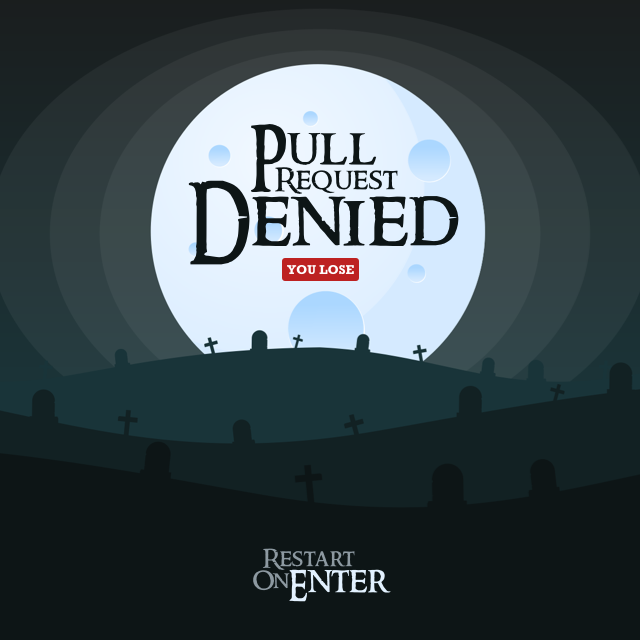
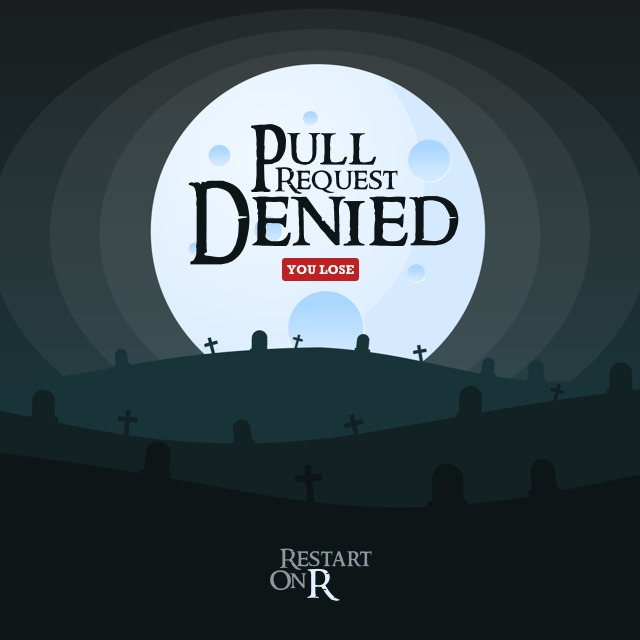
Instructions Screen, More Improvements

Changed region(s): [[0.4062, 0.8438, 0.625, 0.9375]]

diff --git a/scripts/game.js b/scripts/game.js
@@ -1,11 +1,12 @@
 // GAME CLASS
 const lostImage = new Image();
-lostImage.src = './../images/losegame.png';
+lostImage.src = "./../images/losegame.png";
 const wonImage = new Image();
-wonImage.src = './../images/wingame.png';
+wonImage.src = "./../images/wingame.png";
+const instructionsImage = new Image();
+instructionsImage.src = "./../images/instructions.png";
 
 //bgSound.addEventListener( "load", () => {  });
-
 
 class Game {
   constructor($canvas) {
@@ -15,9 +16,12 @@ class Game {
     this.controls = new Controls(this);
 
     this.state = false;
+    this.gameLevel = 1;
+
+    this.instructions = true;
 
     this.sound = new Audio();
-    this.sound.src = './../sounds/backgroundsound.mp3';
+    this.sound.src = "./../sounds/backgroundsound.mp3";
     this.winSound = new Audio();
     this.winSound.src = "../sounds/rejoice.ogg";
 
@@ -36,26 +40,26 @@ class Game {
 
   drawEverything() {
     const context = this.context;
-    if (this.player.health <= 0) {
-      // IF PLAYER LOOSES THE GAME
-      this.context.drawImage(lostImage, 0, 0, 640, 640);
-      this.sound.pause();
-      if(this.player.deadSoundFlag){
-        this.player.deadSound.play();
-        this.player.deadSoundFlag = false;
-      }
-    } else if(this.player.githubs.length === 5){
-      this.context.drawImage(wonImage, 0, 0, 640, 640);
-      this.sound.pause();
-      this.winSound.play();
+    if (this.instructions) {
+      this.context.drawImage(instructionsImage, 0, 0, 640, 640);
     } else {
-      this.winSound.pause();
-      this.level.drawLevel();
+      if (this.player.health <= 0) {
+        // IF PLAYER LOOSES THE GAME
+        this.context.drawImage(lostImage, 0, 0, 640, 640);
+        this.sound.pause();
+        if (this.player.deadSoundFlag) {
+          this.player.deadSound.play();
+          this.player.deadSoundFlag = false;
+        }
+      } else if (this.player.githubs.length === 5) {
+        this.context.drawImage(wonImage, 0, 0, 640, 640);
+        this.sound.pause();
+        this.winSound.play();
+      } else {
+        this.winSound.pause();
+        this.level.drawLevel();
+      }
     }
-  }
-
-  drawScore() {
-
   }
 
   updateEverything(timestamp) {
@@ -63,15 +67,17 @@ class Game {
     this.player.updatePlayer();
 
     if (this.tempTimeStamp < timestamp - this.animationPlayer) {
-      this.player.indexBubble = Math.floor(Math.random()*this.player.bubblesArray.length);
-      this.player.showBubble = !(this.player.showBubble);
+      this.player.indexBubble = Math.floor(
+        Math.random() * this.player.bubblesArray.length
+      );
+      this.player.showBubble = !this.player.showBubble;
       this.tempTimeStamp = timestamp;
     }
 
     if (this.tempTimeStamp2 < timestamp - this.bugSpeed) {
-      for (let bug of this.level.bugsArray) {    
-        if (bug.health > 0){
-            bug.invertBug();
+      for (let bug of this.level.bugsArray) {
+        if (bug.health > 0) {
+          bug.invertBug();
         }
       }
       this.tempTimeStamp2 = timestamp;
@@ -91,15 +97,9 @@ class Game {
     this.animation();
   }
 
-  startLevel() {
-    
-  }
+  startLevel() {}
 
-  loseGame() {
+  loseGame() {}
 
-  }
-
-  restartGame() {
-
-  }
+  restartGame() {}
 }

diff --git a/scripts/levels.js b/scripts/levels.js
@@ -11,7 +11,6 @@ class Level {
     this.bugsArray = [];
     this.bugsArray.push(new Bug(this, 2, 6), new Bug(this, 4, 6),  new Bug(this, 4, 1));
     
-    
     this.gravity = 0.3;
     this.friction = 0.8;
     this.devMode = false;
@@ -19,17 +18,17 @@ class Level {
     this.runAnimationSprite = 0;
     this.runAnimationCounter = 0;
     this.map = [
-      [0, 0, 0, 0, 0, 0, 0, 0, 0, 0],
-      [0, 0, 0, 0, 0, 0, 0, 0, 0, 2],
-      [0, 0, 2, 1, 1, 1, 1, 16, 0, 0],
-      [0, 0, 0, 0, 0, 0, 0, 0, 0, 15],
-      [0, 0, 0, 0, 0, 0, 0, 0, 0, 12],
-      [2, 16, 0, 0, 0, 0, 0, 0, 0, 12],
-      [0, 0, 0, 0, 0, 0, 0, 0, 0, 12],
-      [0, 2, 1, 1, 1, 1, 16, 0, 0, 12],
-      [0, 0, 0, 0, 0, 0, 0, 0, 0, 12],
-      [5, 14, 14, 14, 14, 14, 14, 14, 14, 9]
-    ];
+        [0, 0, 0, 0, 0, 0, 0, 0, 0, 0],
+        [0, 0, 0, 0, 0, 0, 0, 0, 0, 2],
+        [0, 0, 2, 1, 1, 1, 1, 16, 0, 0],
+        [0, 0, 0, 0, 0, 0, 0, 0, 0, 15],
+        [0, 0, 0, 0, 0, 0, 0, 0, 0, 12],
+        [2, 16, 0, 0, 0, 0, 0, 0, 0, 12],
+        [0, 0, 0, 0, 0, 0, 0, 0, 0, 12],
+        [0, 2, 1, 1, 1, 1, 16, 0, 0, 12],
+        [0, 0, 0, 0, 0, 0, 0, 0, 0, 12],
+        [5, 14, 14, 14, 14, 14, 14, 14, 14, 9]
+        ];
     this.objectsMap = [
         [0, 0, 0, 0, 0, 0, 0, 0, 0, 20],
         [0, 21, 0, 0, 0, 0, 0, 0, 0, 0],
@@ -44,7 +43,6 @@ class Level {
       ];
   }
 
-  setFirstLevel() {}
 
   drawMaps(mapArray){
     for (let row = 0; row < mapArray.length; row++) {
@@ -139,7 +137,6 @@ class Level {
     }
   }
 
-  setLevel() {}
 
   updateLevel() {
     for (let bugsy of this.bugsArray) {
@@ -168,7 +165,8 @@ class Level {
   
       this.player.onAir = true;
 
-      this.bugsArray.push(new Bug(this, 170, 398), new Bug(this, 300, 398));
+      this.bugsArray = [];
+      this.bugsArray.push(new Bug(this, 2, 6), new Bug(this, 4, 6),  new Bug(this, 4, 1));
 
       this.objectsMap = [
         [0, 0, 0, 0, 0, 0, 0, 0, 0, 20],

diff --git a/scripts/controls.js b/scripts/controls.js
@@ -35,7 +35,7 @@ class Controls {
           event.preventDefault();
           this.player.velocity.y += 5;
           break;
-        case 89:
+        case 82:
           event.preventDefault();
           if(this.game.state === true){
             this.game.level.restartLevel();
@@ -66,6 +66,15 @@ class Controls {
           break;
         case 40:
           event.preventDefault();
+          break;
+        case 73:
+          event.preventDefault();
+          if (this.game.instructions) {
+            this.game.instructions = false;
+          } else {
+            this.game.instructions = true;
+          }
+                    
           break;
       }
     });
